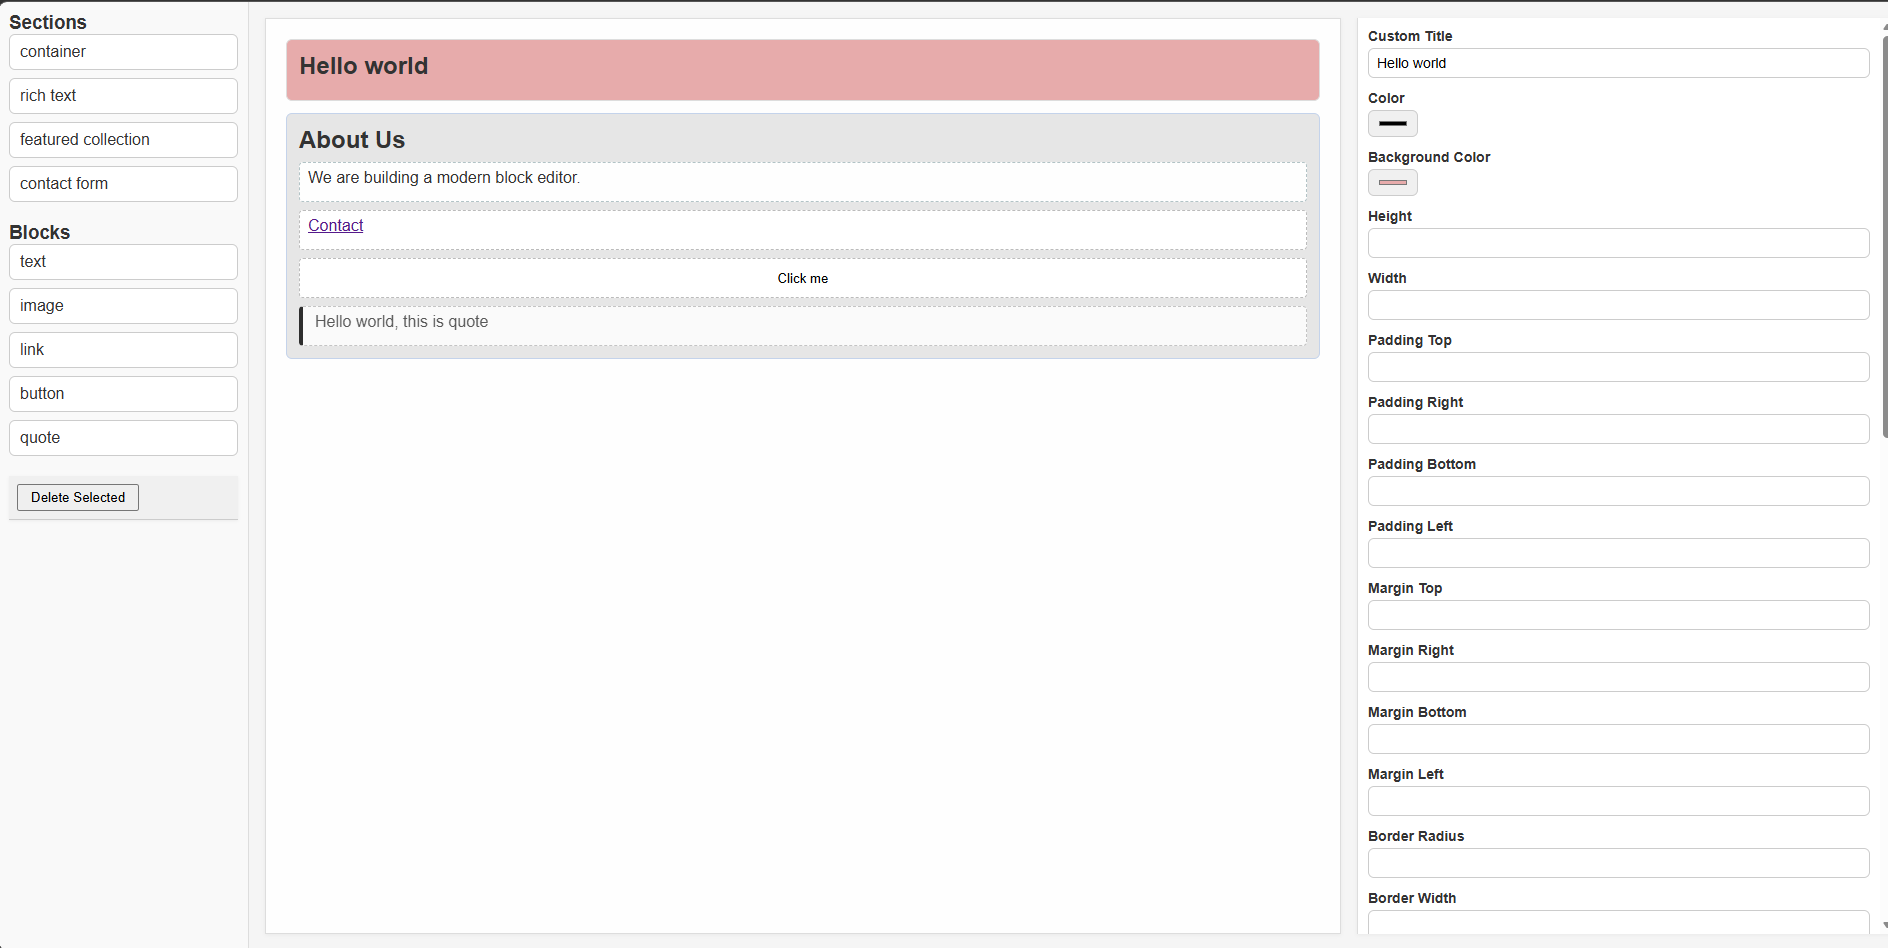
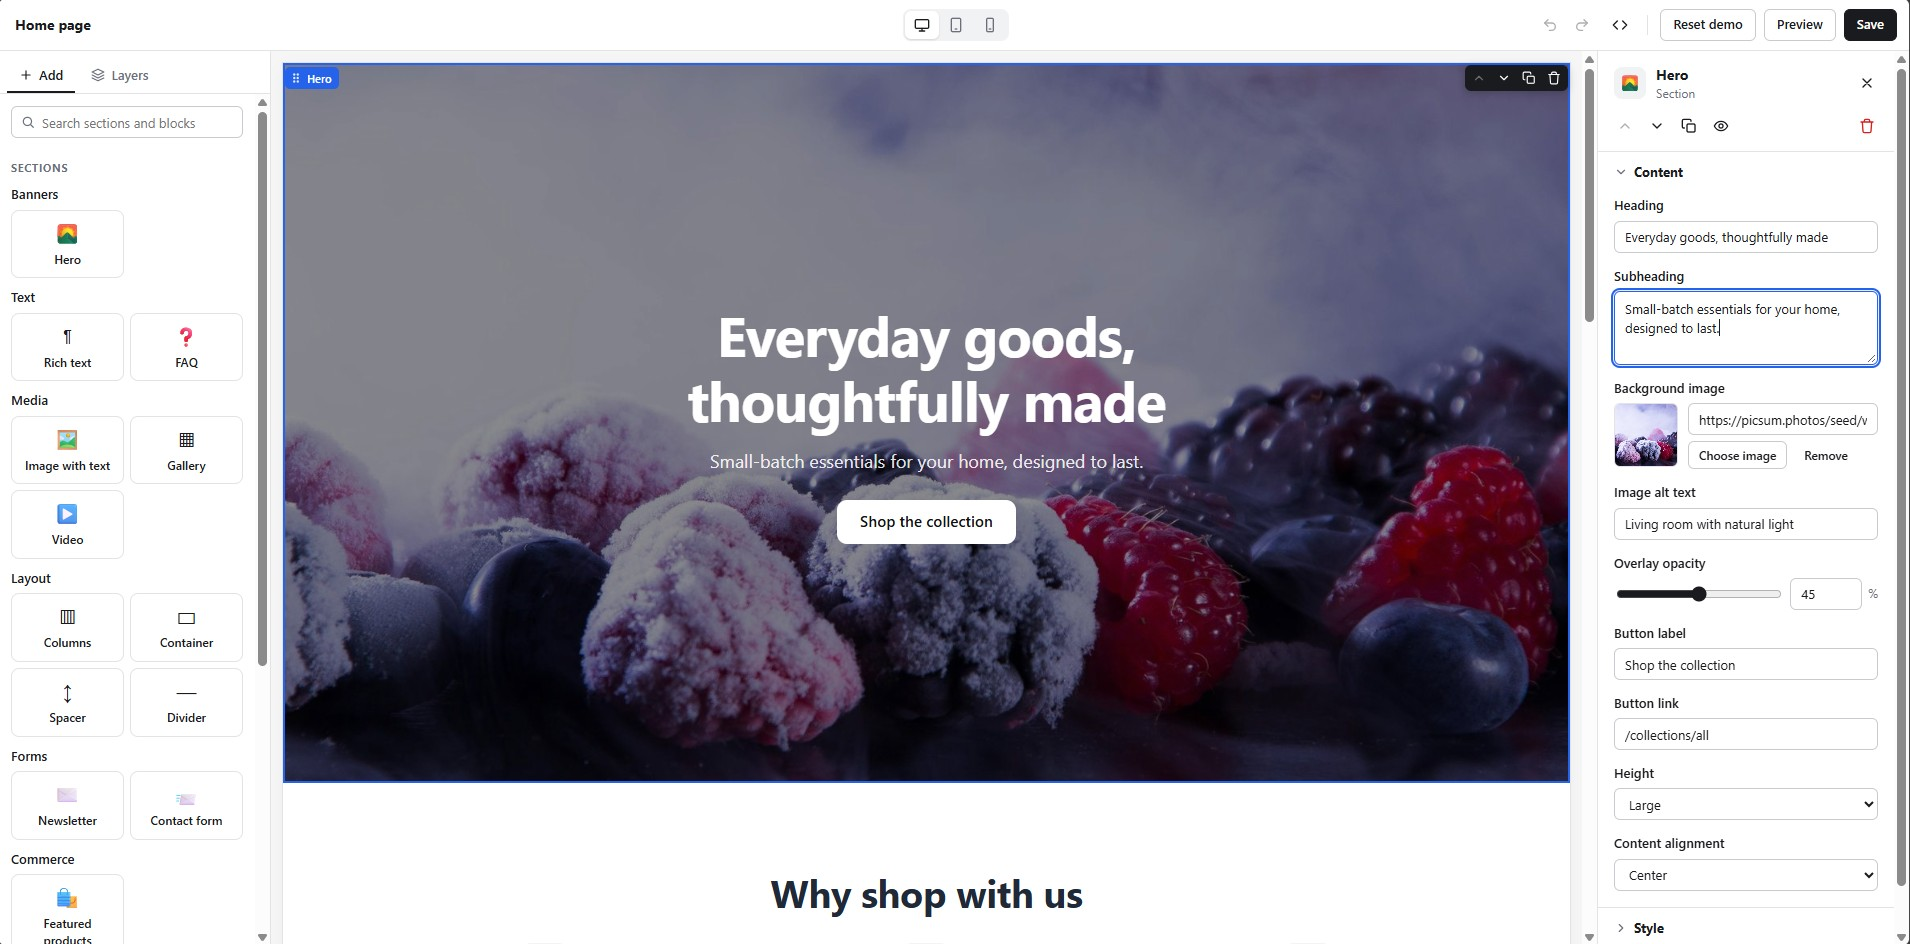
docs: update README.md

diff --git a/README.md b/README.md
@@ -1,4 +1,4 @@
-# dnd-web-builder
+# Dnd Web builder
 
 ![Screenshot](./screenshots/screenshot1.png)
 
